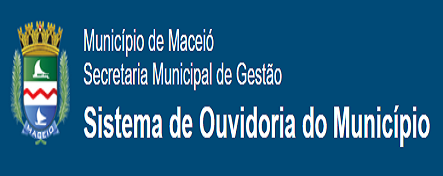
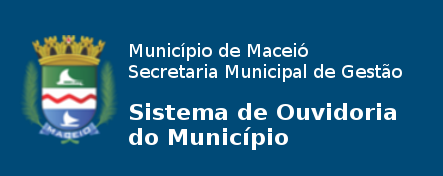
ajustes de imagens

Changed region(s): [[0.0, 0.1136, 0.9977, 0.8523]]

diff --git a/index.html b/index.html
@@ -376,7 +376,7 @@
 
                     <a href="http://www2.ouvidoria.maceio.al.gov.br/ouvidoria/faces/pages/principal.xhtml" target="_blank" class="no-decor">
                         <div class='sites-box-img'>
-                            <img src="public/img/ouvidoria_2.png">
+                            <img src="public/img/ouvidoria.png">
                         </div>
 
                         <div class='sites-box-texto'>

diff --git a/public/css/style.css b/public/css/style.css
@@ -451,7 +451,7 @@ section .col-md-3:first-child {
 }
 
 #about-section {
-    background: url(../img/PontaVerde.png) no-repeat center top;
+    background: url(../img/04_PontaVerde.png) no-repeat center top;
     background-color: #7bc3d1;
     -webkit-background-size: cover;
     -moz-background-size: cover;
